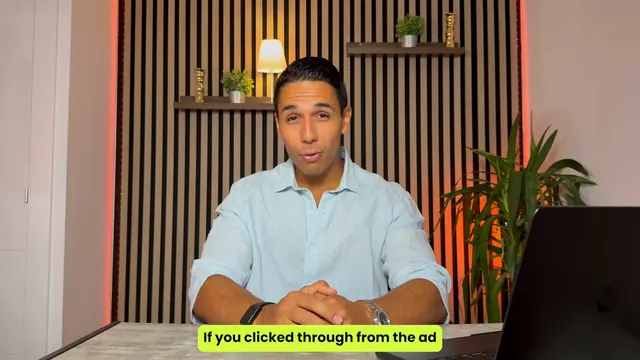
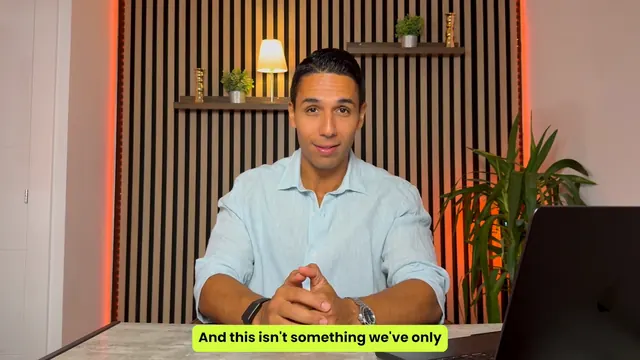
Roadmap video: soft lime LED backlight around the frame, warmer poster frame (25.6 s), Play button rests below the face

Changed region(s): [[0.2812, 0.1222, 0.7188, 0.9778], [0.1562, 0.0, 0.2188, 0.9167], [0.7812, 0.0, 0.8438, 0.4583]]

diff --git a/src/components/roadmap/RoadmapVideo.jsx b/src/components/roadmap/RoadmapVideo.jsx
@@ -173,10 +173,19 @@ export default function RoadmapVideo() {
         {/* Fixed-size frame: 16:9 (the video's own ratio), capped by width and by viewport height so it
             always fits on screen with the header. No scroll-driven size, position or radius. */}
         <div
-          className="relative mx-auto aspect-video w-full overflow-hidden rounded-[20px] border border-hairline-strong bg-black shadow-[0_30px_80px_-24px_rgba(0,0,0,0.8)] ring-1 ring-lime/[0.07] md:rounded-[28px]"
+          className="relative mx-auto w-full"
           style={{ maxWidth: 'min(100%, 1040px, max(480px, calc((100svh - 230px) * 1.7778)))' }}
           onPointerEnter={warm}
         >
+          {/* LED backlight: a static, diffused lime halo behind the frame (three soft box-shadow layers, no
+              border, no animation, no filter). Painted behind the opaque frame, so it only shows outside it. */}
+          <div
+            aria-hidden="true"
+            className="pointer-events-none absolute inset-0 rounded-[20px] md:rounded-[28px]
+                       shadow-[0_0_30px_0_rgba(213,255,64,0.11),0_0_76px_8px_rgba(213,255,64,0.15),0_0_130px_24px_rgba(213,255,64,0.1)]
+                       md:shadow-[0_0_44px_0_rgba(213,255,64,0.11),0_0_110px_14px_rgba(213,255,64,0.16),0_0_230px_46px_rgba(213,255,64,0.11)]"
+          />
+          <div className="relative aspect-video w-full overflow-hidden rounded-[20px] border border-lime/25 bg-black ring-1 ring-black/60 md:rounded-[28px]">
           {!playing && (
             <>
               <img
@@ -263,8 +272,9 @@ export default function RoadmapVideo() {
               onFocus={warm}
               disabled={starting}
               aria-label={paused ? 'Resume the video' : 'Play the Free Creative Growth Roadmap video'}
+              // Poster state: centred horizontally, resting at ~64% of the frame height so the speaker's face stays clear.
               className={`group absolute inset-x-0 flex items-center justify-center focus-visible:outline-none ${
-                playing ? 'bottom-20 top-16' : 'bottom-14 top-0 md:bottom-16'
+                playing ? 'bottom-20 top-16' : 'bottom-0 top-[28%]'
               }`}
             >
               <span className="relative flex h-20 w-20 items-center justify-center rounded-full transition-transform duration-300 ease-out group-hover:scale-[1.06] group-active:scale-95 group-focus-visible:ring-2 group-focus-visible:ring-lime group-focus-visible:ring-offset-2 group-focus-visible:ring-offset-black motion-reduce:transition-none motion-reduce:group-hover:scale-100 md:h-24 md:w-24">
@@ -284,6 +294,7 @@ export default function RoadmapVideo() {
               </span>
             </button>
           )}
+          </div>
         </div>
       </div>
     </section>

diff --git a/src/content/roadmapVideo.js b/src/content/roadmapVideo.js
@@ -8,7 +8,7 @@
 export const ROADMAP_VIDEO_ID = 'a37d5452f9c95a459c96f1a90a3a711d'
 export const ROADMAP_VIDEO_HLS = `https://videodelivery.net/${ROADMAP_VIDEO_ID}/manifest/video.m3u8`
 
-// Same-origin poster (a still from the video at 0.6 s): shows with the page, no third-party request.
+// Same-origin poster (a still from the video at 25.6 s, chosen for a warm, friendly expression): shows with the page, no third-party request.
 export const ROADMAP_VIDEO_POSTER = '/roadmap/roadmap-video-poster.webp'
 export const ROADMAP_VIDEO_POSTER_SMALL = '/roadmap/roadmap-video-poster-640.webp'
 export const ROADMAP_VIDEO_POSTER_SIZE = { width: 1280, height: 720 }
